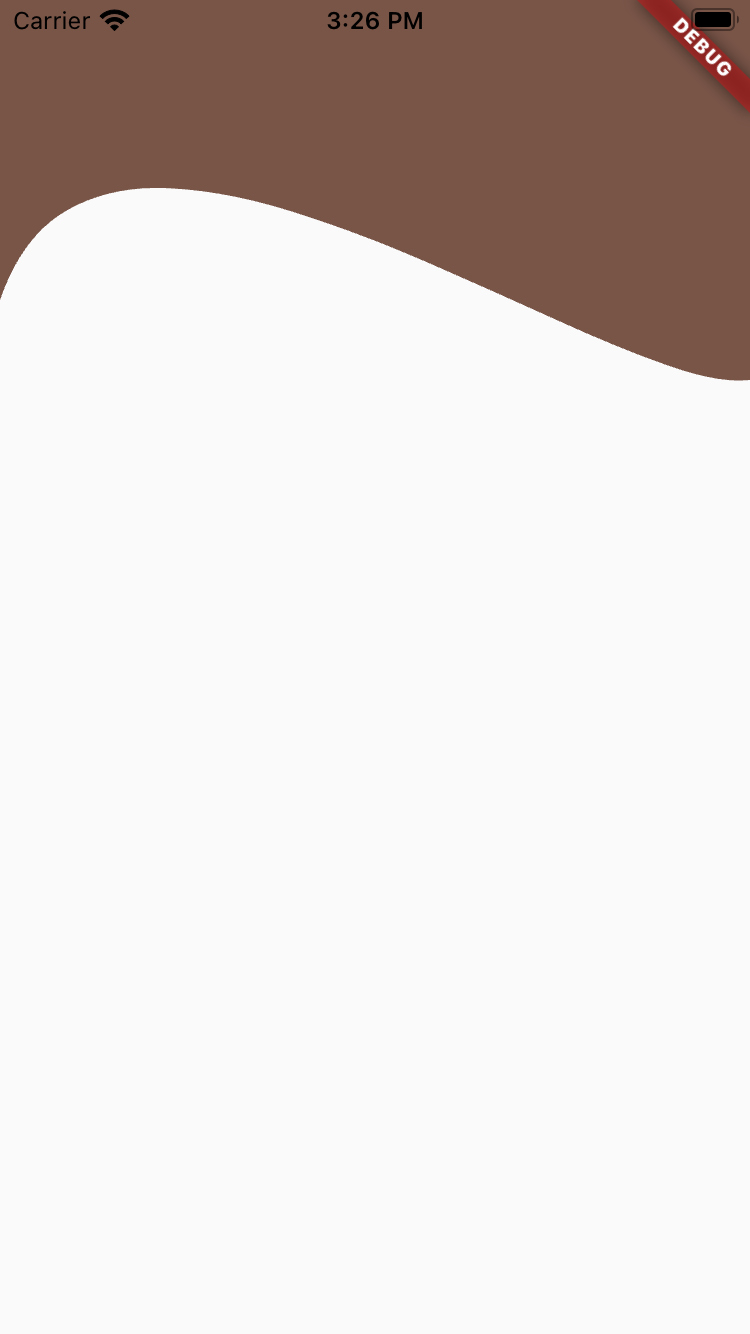
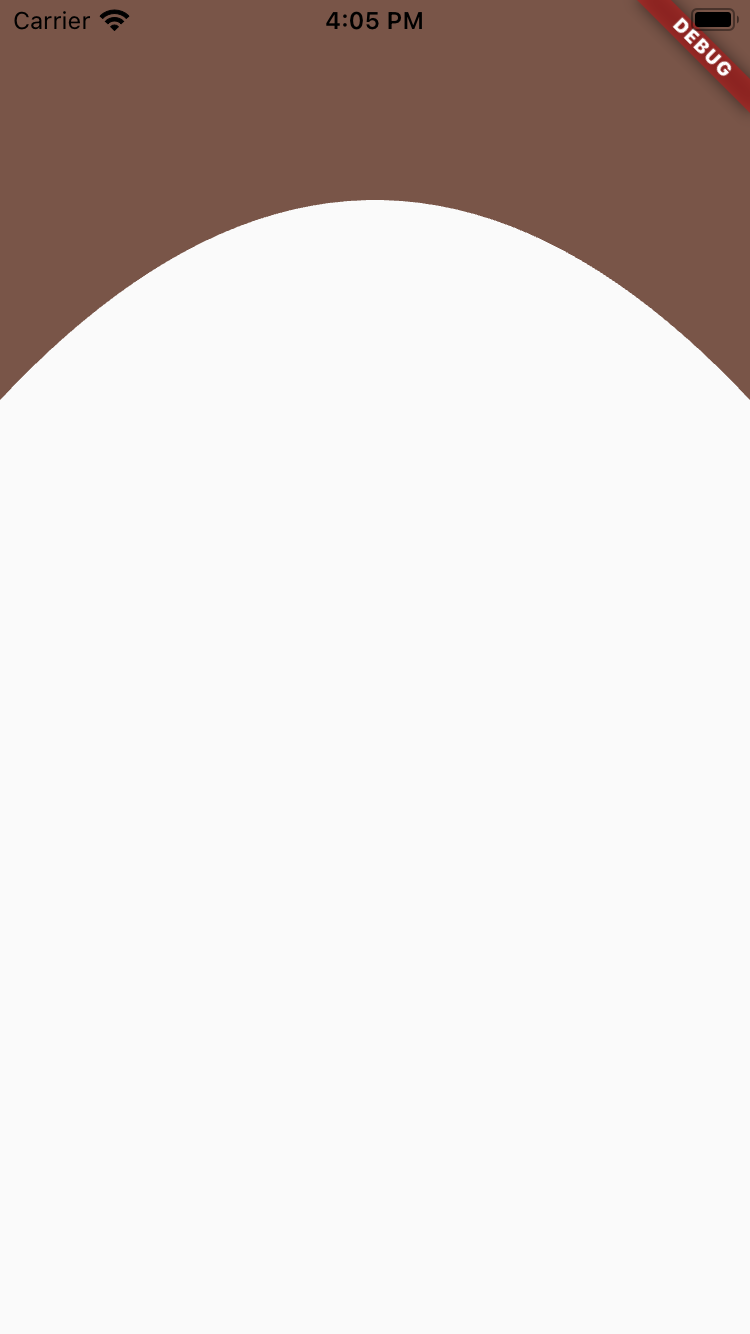
one commit

Changed region(s): [[0.3987, 0.1229, 1.0, 0.3073], [0.0, 0.1229, 0.368, 0.3073], [0.4293, 0.0, 0.4907, 0.0307]]

diff --git a/lib/screens/clipperclass.dart b/lib/screens/clipperclass.dart
@@ -21,11 +21,12 @@ class MyClipper extends CustomClipper<Path>{
 
    Path path= Path();
    path.lineTo(0, 0);
-
-   path.lineTo(0, size.height-50);
-   // path.lineTo(size.width, size.height);
-   path.cubicTo(50, size.height-200, size.width-70, size.height, size.width, size.height-10);
+   path.lineTo(0,size.height);
+   path.quadraticBezierTo(size.width/2, 0, size.width, size.height);
    path.lineTo(size.width, 0);
+
+
+
 
 
 
